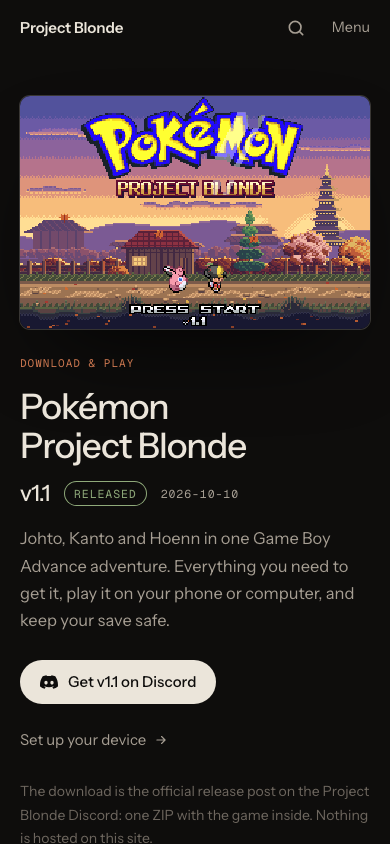
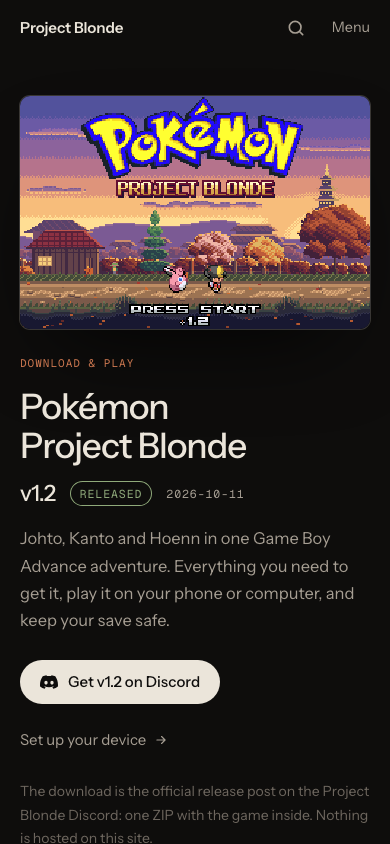
v1.2 website update: deployment record and live verification evidence

diff --git a/DEPLOYMENT-STATUS.md b/DEPLOYMENT-STATUS.md
@@ -1,5 +1,11 @@
 # Deployment status
 
+**Latest deploy 2026-10-11 (v1.2 website update):** commit `848aa60` on `main`, workflow run 38111891002, success (build 1,315 pages and every CI check). Verified
+live: `tools/qa_play.py https://areyoublonde.github.io/project-blonde-guide` 232 of 232, `tools/qa_patcher.py <live>` 49 of 49 on `/play/v1.0/`, a gallery screenshot
+byte-identical to the committed file, and the only release-post link on `/play/` is the v1.2 post. Evidence: `qa-evidence/download-play/live.json`,
+`qa-evidence/patcher/live.json`. This note and the live evidence are committed locally only (owner rule: no deployment solely for documentation); push them with
+the next website update.
+
 **v1.2 website update: PREPARED 2026-10-11, owner approved deployment once every check passes.** Branch `release-v1.2` on `origin/main` `c249cc0` (it also carries
 the v1.1 deployment record). The game itself is already public: v1.2 (build v113) was published on Discord on 2026-10-11, and nothing in that release was touched here.
 Local results: build 1,315 pages (also with `--base /project-blonde-guide`); links 82,690 and assets 39,495, 0 failures; `qa_play.py` 232 of 232; `qa_patcher.py`
